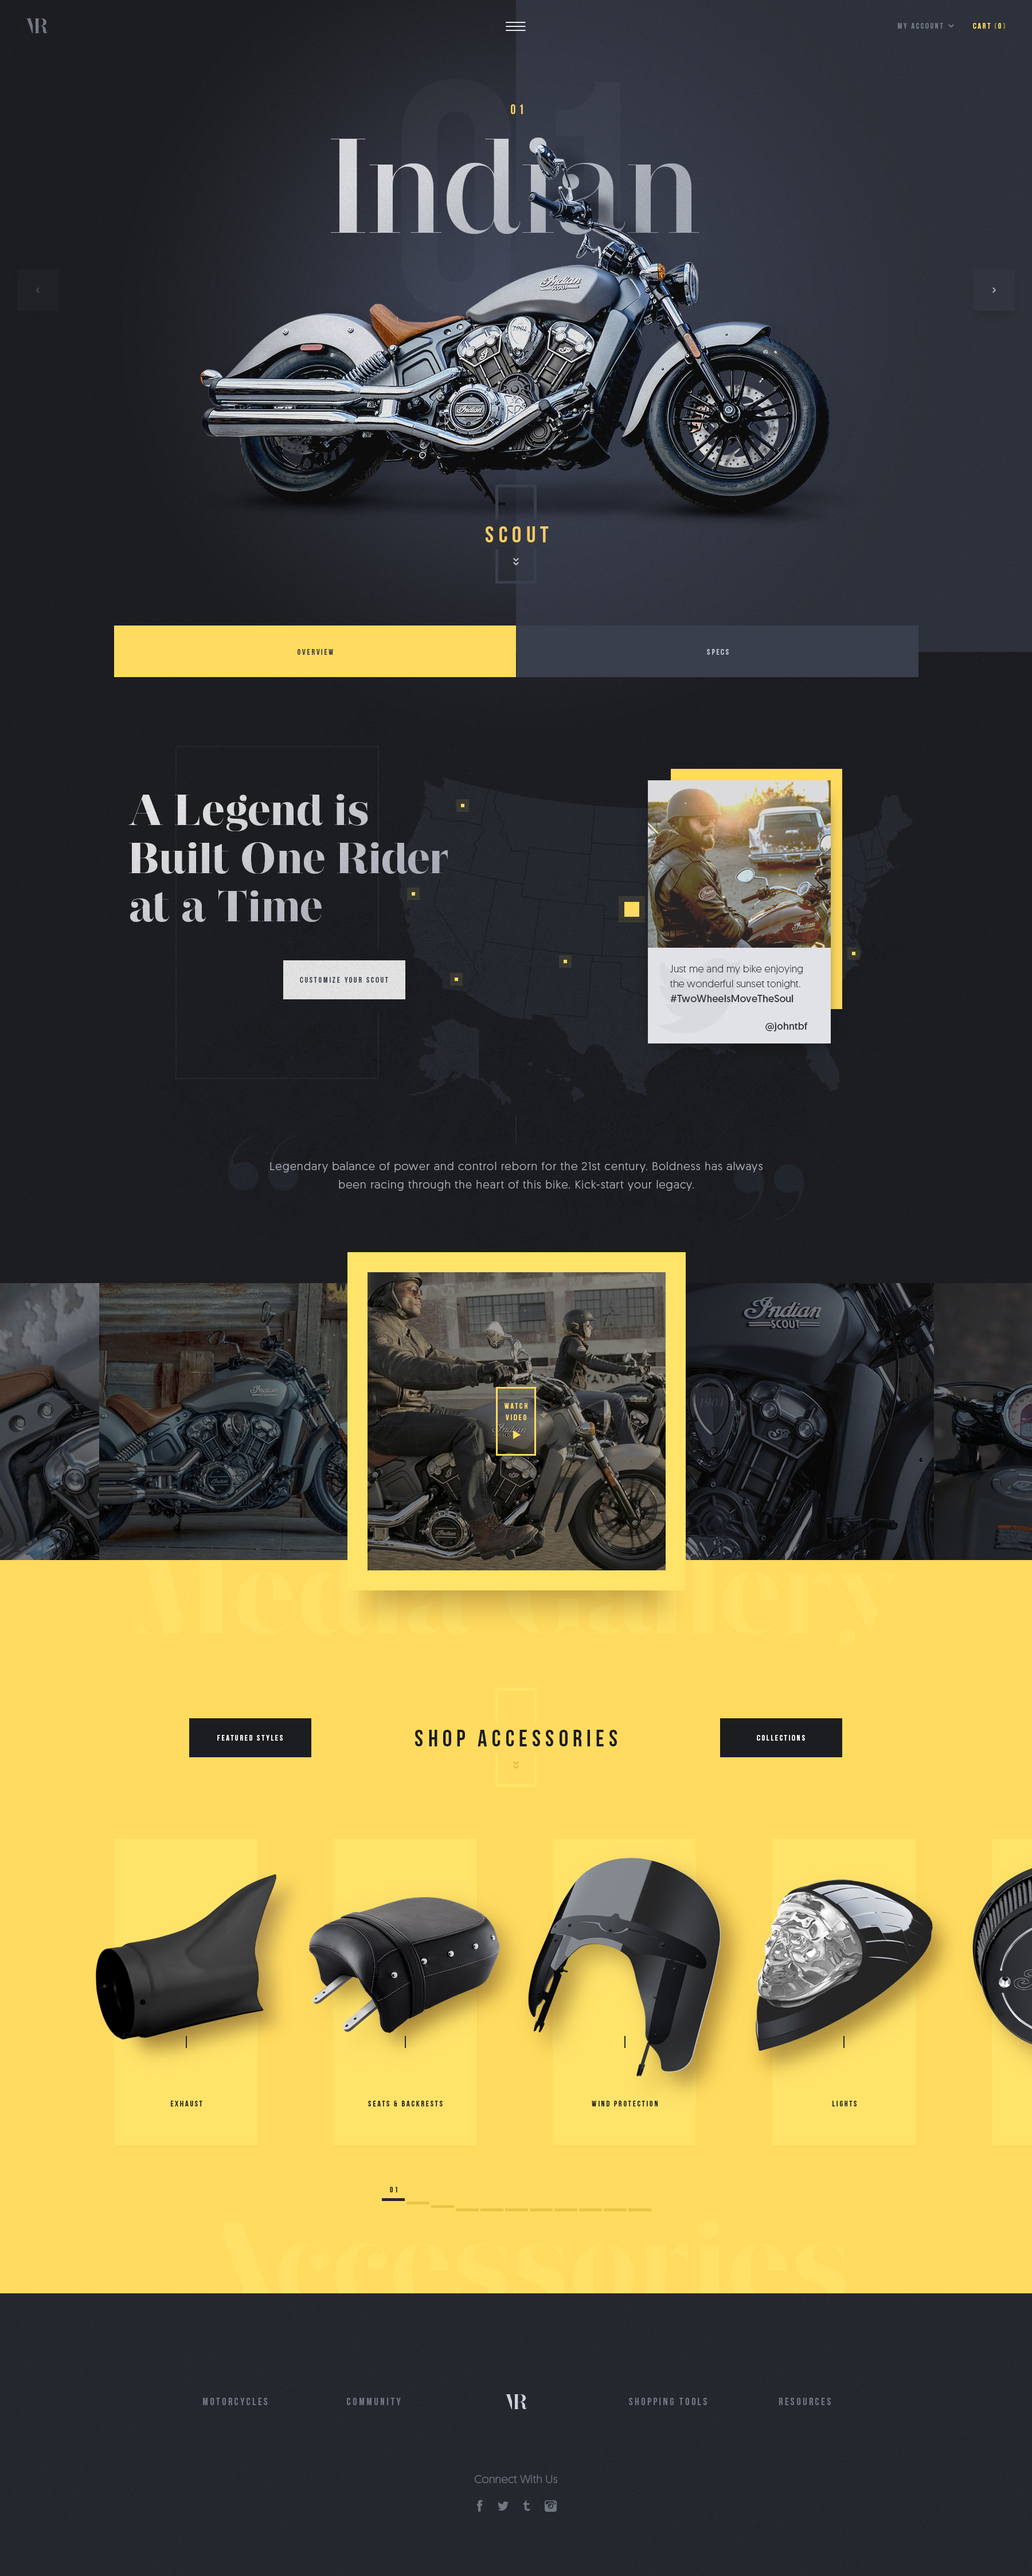
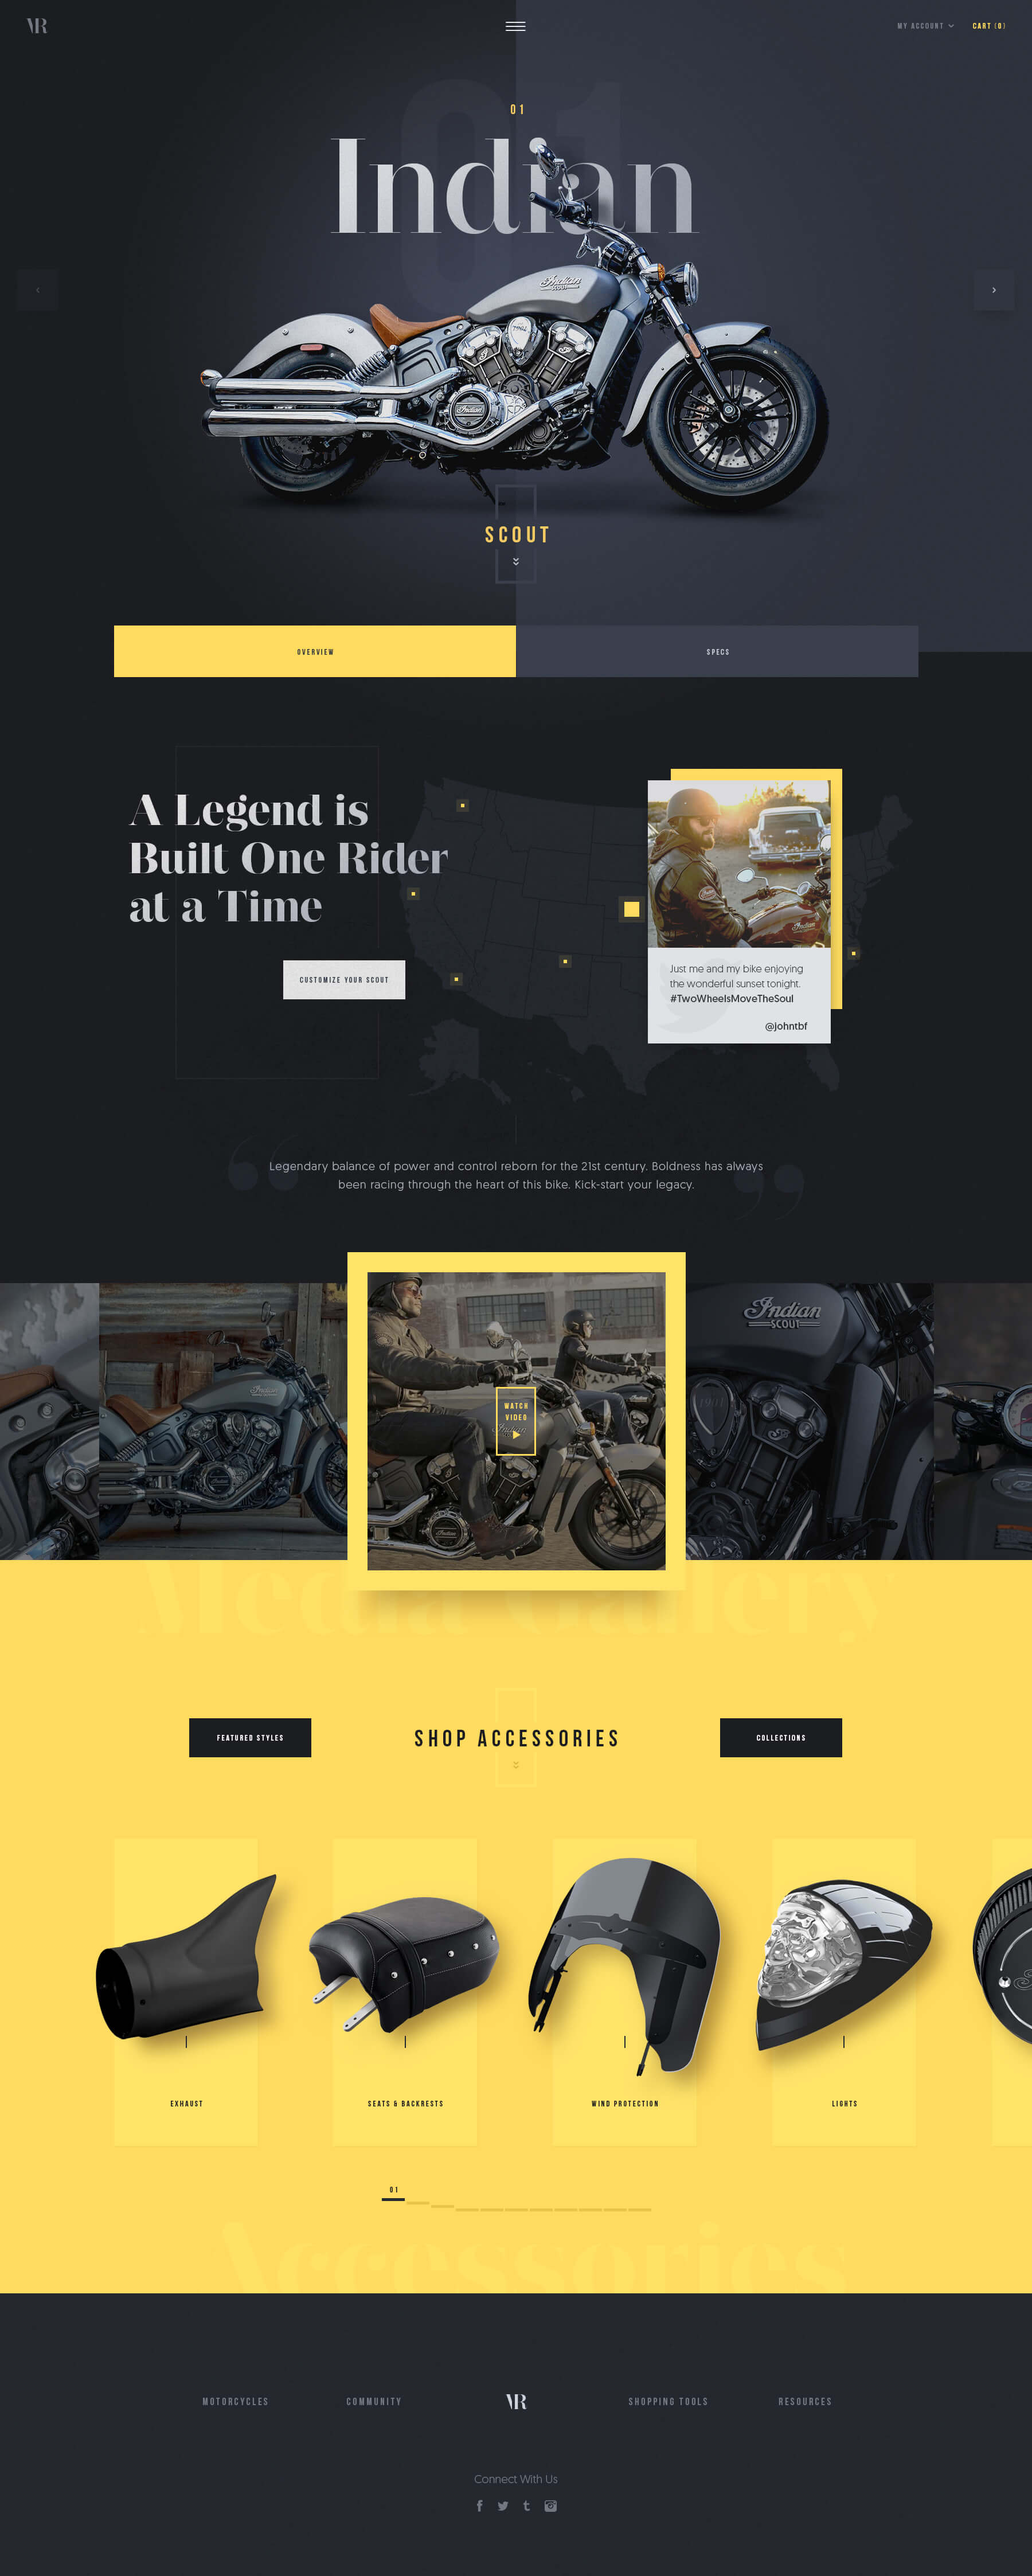
Fixed form-border, form-button, copyright, validation, navigation menu align, full pictures

Changed region(s): [[0.4356, 0.1246, 0.56, 0.187], [0.6222, 0.0935, 0.6533, 0.1246], [0.3422, 0.1246, 0.3733, 0.1558]]

diff --git a/css/main.css b/css/main.css
@@ -109,6 +109,9 @@ p {
 }
 .block-bg-copyright {
   background-color: #003f6d;
+  position: relative;
+  padding-top: 35px;
+  padding-bottom: 24px;
 }
 .section {
   position: relative;
@@ -144,7 +147,6 @@ p {
   color: #FFF;
 }
 .navigation {
-  padding-top: 95px;
   font-size: 18px;
   font-weight: 700;
   color: #fff;
@@ -158,6 +160,7 @@ p {
 }
 @media only screen and (min-width: 768px) {
   .navigation {
+    padding-top: 95px;
     position: relative;
     z-index: 1;
     padding-top: 0;
@@ -224,6 +227,10 @@ p {
   /*IE7 fix*/
   bottom: 0;
   position: fixed;
+  display: flex;
+}
+.navigation--active ul {
+  margin: auto;
 }
 .cmn-toggle-switch {
   display: block;
@@ -590,19 +597,19 @@ a.mouse_scroll:focus {
 .form_button {
   display: inline-block;
   margin: 5px 0;
-  padding: 15px 50px;
   white-space: nowrap;
   background-color: #065a97;
   height: 60px;
   -webkit-border-radius: 30px;
   border-radius: 30px;
-  border: 2px solid #fff;
+  border: 4px solid #fff;
   color: #fff;
   font-weight: 700;
   text-decoration: none;
   font-size: 18px;
   line-height: 1;
   width: 290px;
+  text-align: center;
 }
 @media only screen and (min-width: 768px) {
   .form_button {
@@ -628,7 +635,7 @@ a.mouse_scroll:focus {
   background-color: #065a97;
   cursor: pointer;
   color: #ffe400;
-  border: 2px solid #ffe400;
+  border: 4px solid #ffe400;
 }
 .filter-conteiner {
   font-size: 16px;
@@ -698,11 +705,12 @@ a.mouse_scroll:focus {
   color: #82B3D7;
   font-size: 16px;
   line-height: 28px;
-  margin-bottom: 5px;
+  margin-bottom: 10px;
 }
 .block-copyright__text {
   color: #5E92B9;
   font-size: 14px;
+  line-height: 1.8;
   margin: 0;
   padding: 0;
 }
@@ -740,12 +748,14 @@ a.mouse_scroll:focus {
   font-weight: 700;
   font-size: 16px;
   line-height: 32px;
+  outline: none;
+  border: 3px solid #fff;
 }
 .form_item:hover,
 .form_item:focus,
 .form_item:active,
 .form_item.active {
-  border: 2px solid #a2d1f4;
+  border: 3px solid #a2d1f4;
   color: #005999;
 }
 .form_item--width100 {

diff --git a/index.html b/index.html
@@ -328,13 +328,12 @@
 	<!-- // Contacts -->
 
 	<!-- Copy -->
-	<div class="section block-bg-copyright">
+	<div class="block-bg-copyright">
 		<div class="container">
 			<div class="block-copyright">
 				<div class="block-copyright__title">© 2017 Алина Антонова</div>
 				<div class="block-copyright__text">
-					<p>Веб-разработчик из Германии, занимаюсь версткой и созданием сайтов.</p>
-					<p>Этот сайт сделан в рамках прохождения обучения по верстке на курсах от <a href="http://webcademy.ru" target="_blank">WebCademy.ru</a></p>
+					<p>Веб-разработчик, занимаюсь версткой и созданием сайтов.<br>Этот сайт сделан в рамках прохождения обучения по верстке на курсах от <a href="http://webcademy.ru" target="_blank">WebCademy.ru</a></p>
 				</div>
 			</div>
 		</div>

diff --git a/less/blocks/_buttons.less b/less/blocks/_buttons.less
@@ -29,19 +29,19 @@
 .form_button {
 	display: inline-block;
 	margin: 5px 0;
-	padding: 15px 50px;
 	white-space: nowrap;
 	background-color: #065a97;
 	height: 60px;
 	-webkit-border-radius: 30px;
 	        border-radius: 30px;
-	border: 2px solid #fff;
+	border: 4px solid #fff;
 	color: #fff;
 	font-weight: 700;
 	text-decoration: none;
 	font-size: 18px;
 	line-height: 1;
 	width: 290px;
+	text-align: center;
 	
 	@media only screen and (min-width: 768px) {
 		font-size: 20px;
@@ -64,6 +64,6 @@
 		background-color: #065a97;
 		cursor: pointer;
 		color: @yellow;
-		border: 2px solid @yellow;
+		border: 4px solid @yellow;
 	}
 }

diff --git a/less/blocks/_navigation.less b/less/blocks/_navigation.less
@@ -1,5 +1,4 @@
 .navigation {
-	padding-top: 95px;
 	font-size: 18px;
 	font-weight: 700;
 	color: #fff;
@@ -13,6 +12,7 @@
 	bottom: 0;
 	
 	@media only screen and (min-width: 768px) {
+		padding-top: 95px;
 		position: relative;
 		z-index: 1;
 		padding-top: 0;
@@ -77,5 +77,10 @@
 	filter: Alpha(Opacity=95);/*IE7 fix*/
 	bottom: 0;
 	position: fixed;
+	display: flex;
+	
+	ul {
+		margin: auto;
+	}
 }
 

diff --git a/less/blocks/_contact_form.less b/less/blocks/_contact_form.less
@@ -31,9 +31,11 @@
     font-weight: 700;
     font-size: 16px;
     line-height: 32px;
+    outline: none;
+    border: 3px solid #fff;
 
     &:hover, &:focus, &:active, &.active {
-		border: 2px solid #a2d1f4;
+		border: 3px solid #a2d1f4;
 		color: rgb(0%, 35%, 60%, 1); //#00599a
 	}
 }

diff --git a/less/blocks/_copyright.less b/less/blocks/_copyright.less
@@ -2,12 +2,13 @@
 	color: #82B3D7;
 	font-size: 16px;
 	line-height: 28px;	
-	margin-bottom: 5px;
+	margin-bottom: 10px;
 }
 
 .block-copyright__text {
 	color: #5E92B9;
 	font-size: 14px;
+	line-height: 1.8;
 	margin: 0;
 	padding: 0;
 	a, p {

diff --git a/less/base/_base.less b/less/base/_base.less
@@ -39,6 +39,9 @@ p {
 
 .block-bg-copyright {
 	background-color: #003f6d;
+	position: relative;
+	padding-top: 35px;
+	padding-bottom: 24px;
 }
 
 
